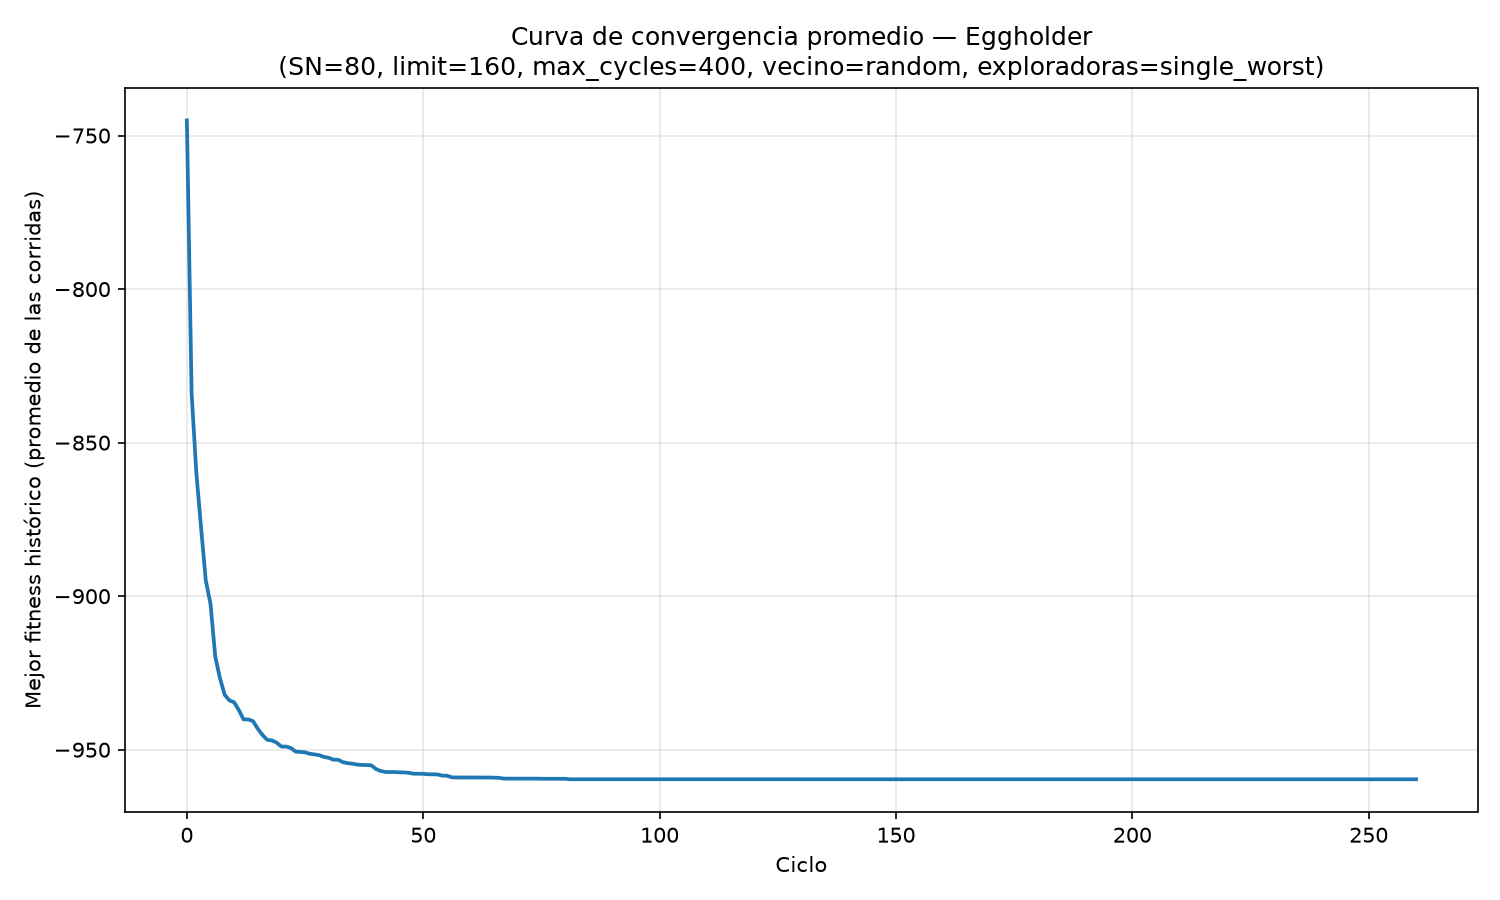
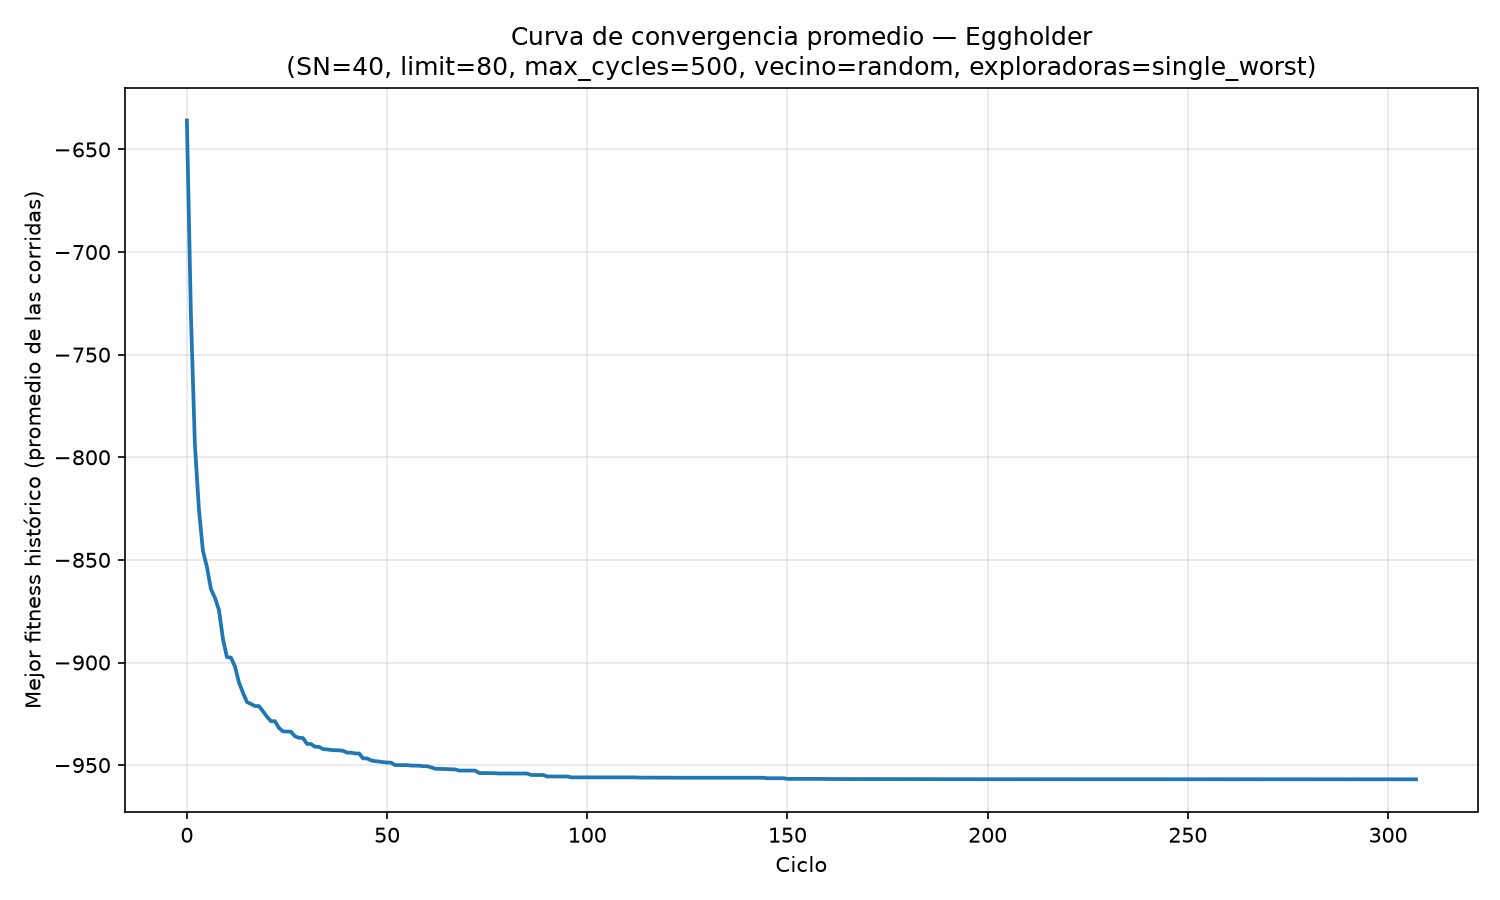
Act4: Código Presentado

diff --git a/2026_09_27/Código/abc_colony.py b/2026_09_27/Código/abc_colony.py
@@ -195,7 +195,10 @@ def select_neighbor_nearest_euclidean(
     diffs = population - population[index_i]
     dists = np.linalg.norm(diffs, axis=1)
     dists[index_i] = np.inf  # excluir la propia fuente
-    return int(np.argmin(dists))
+
+    top_3 = np.argpartition(dists, 3)[:3] #Obtner los tres más cercanos
+    chosen_index = np.random.choice(top_3) # Elegir uno al azar
+    return int(chosen_index)
 
 # Listado de estrategias de la selección de vecinos
 NEIGHBOR_SELECTION_OPERATORS: dict[str, NeighborSelectionOperator] = {
@@ -342,7 +345,7 @@ Misma idea que las actividades pasadas, un contenedor de datos
 @dataclass
 class RunResult:
     """Resultado de una corrida completa del ABC."""
-
+    radio_list: list[float]
     best_x: np.ndarray
     best_fitness: float
     cycles_run: int
@@ -418,11 +421,29 @@ class ABCAlgorithm:
         trial_counts: np.ndarray,
         index_i: int,
         rng: Generator,
+        employed: bool, # Determina si la abeja es Empleada
     ) -> None:
         """Genera un candidato vecino a `index_i` y lo adopta (selección
         greedy) si mejora la fuente actual; si no, incrementa su contador
         de intentos fallidos (`trial`)."""
-        candidate = self._neighbor_search_candidate(population, index_i, rng) # Encontrar una posible nueve fuente de alimento
+        #candidate = self._neighbor_search_candidate(population, index_i, rng) # Encontrar una posible nueve fuente de alimento
+        
+        if(employed): #Si la abeja es empleada, usamos la distancia euclidiana
+            # 1. Obtenemos el indice del vecino más cercano usando tu función
+            index_j = select_neighbor_nearest_euclidean(population, index_i, rng, self.config)
+            
+            # 2. Obtenemos las coordenadas reales de ese vecino
+            vecino_coords = population[index_j]
+            
+            # 3. Generamos el candidato mutando la solución actual con el vecino
+            # (Fórmula estándar de ABC: x_i + phi * (x_i - x_j))
+            phi = rng.uniform(-1, 1, size=self.n_vars)
+            candidate = population[index_i] + phi * (population[index_i] - vecino_coords)
+            candidate = np.clip(candidate, self.low, self.high) # Clippear al espacio de búsqueda
+            
+        else: # Si no es empleada, se utiliza el configurado
+            candidate = self._neighbor_search_candidate(population, index_i, rng)
+        
         f_candidate = float(self.problem.func(candidate.reshape(1, -1))[0]) # Evaluación del fitness de la nueva fuente
 
         if f_candidate < fitness[index_i]: # Si la fuente candidata es mejor (Menor Fitness)
@@ -438,7 +459,7 @@ class ABCAlgorithm:
         """Fase de abejas Empleadas: cada fuente intenta una búsqueda
         vecinal (una abeja empleada por fuente)."""
         for i in range(self.colony_size): # Cada abeja en la colonia
-            self._greedy_update(population, fitness, trial_counts, i, rng) # Intenta buscar una mejor fuente de alimento, puede conseguirlo o aumentar su contador de estancamiento
+            self._greedy_update(population, fitness, trial_counts, i, rng, True) # Intenta buscar una mejor fuente de alimento, puede conseguirlo o aumentar su contador de estancamiento
 
     # Selección de probabilidades que usarán las abejas observadoras por método de ruleta
     def _selection_probabilities(self, fitness: np.ndarray) -> np.ndarray:
@@ -461,7 +482,7 @@ class ABCAlgorithm:
         probs = self._selection_probabilities(fitness) # Cálculo de probabilidades para la ruleta
         chosen = rng.choice(self.colony_size, size=self.onlooker_count, replace=True, p=probs) # Selección aleatoria de onlooker_count fuentes pudiéndose repetir
         for i in chosen:
-            self._greedy_update(population, fitness, trial_counts, int(i), rng) # Cada observadora intenta buscar una fuente de alimento mejor dada en referencia a una fuente de alimento vecino
+            self._greedy_update(population, fitness, trial_counts, int(i), rng, False) # Cada observadora intenta buscar una fuente de alimento mejor dada en referencia a una fuente de alimento vecino
             # Comportamiento idéntico a la empleadas
 
     def _scout_phase(
@@ -497,6 +518,7 @@ class ABCAlgorithm:
 
         cycle = 0 # Contador de iteraciones
         stopped_reason = "max_cycles" # Razón de paro (por default será número de ciclos; será modificada si otro criterio de paro es el que finalmente actua)
+        radio_list = []
 
         while True: # Ciclo Principal
             current_best_idx = int(np.argmin(fitness)) # Mejor índice actual 
@@ -524,6 +546,12 @@ class ABCAlgorithm:
             self._onlooker_phase(population, fitness, trial_counts, rng) # Fase de las abejas observadoras (Selección de las mejores fuentes y búsqueda de mejores fuentes)
             self._scout_phase(population, fitness, trial_counts, rng) # Fase de las abejas exploradoras (Abdanonar fuentes estancadas y aleatorizar nuevas)
             cycle += 1
+
+            # Calcular el radio promedio
+            centroide = np.mean(population, axis = 0)
+            radio = np.mean(np.linalg.norm(population - centroide, axis=1))
+            radio_list.append(radio)
+
         #Retorno de resultados y estadística
         return RunResult(
             best_x=best_x,
@@ -532,6 +560,7 @@ class ABCAlgorithm:
             convergence_best=convergence_best,
             diversity_history=diversity_history,
             stopped_reason=stopped_reason,
+            radio_list=radio_list
         )
 
 

diff --git a/2026_09_27/Código/main.py b/2026_09_27/Código/main.py
@@ -221,6 +221,7 @@ ____________________________________________________________
 # Contenedor de datos estadísticos
 @dataclass
 class StatsRow:
+    runs: list[RunResult]
     problem_name: str
     best: float
     worst: float
@@ -228,6 +229,7 @@ class StatsRow:
     std: float
     success_rate: float | None
     mean_cycles: float
+    last_radio: float
 
 # Cálculos de las estadísticas dado el éxito (si se conoce el mínimo analítico)
 def compute_stats(problem: ProblemSpec, runs: list[RunResult], tolerance: float) -> StatsRow:
@@ -235,6 +237,7 @@ def compute_stats(problem: ProblemSpec, runs: list[RunResult], tolerance: float)
     successes = [is_success(problem, v, tolerance) for v in values]
     success_rate = float(np.mean(successes)) if all(s is not None for s in successes) else None
     return StatsRow(
+        runs= runs,
         problem_name=problem.name,
         best=float(values.min()),
         worst=float(values.max()),
@@ -242,19 +245,29 @@ def compute_stats(problem: ProblemSpec, runs: list[RunResult], tolerance: float)
         std=float(values.std(ddof=1)) if len(values) > 1 else 0.0,
         success_rate=success_rate,
         mean_cycles=float(np.mean([r.cycles_run for r in runs])),
+        last_radio=float(runs[-1].radio_list[-1])
     )
 
 
 # Impresión de la tabla de estadísticas
 def print_stats_table(row: StatsRow) -> None:
-    header = f"{'Problema':<12} {'Mejor':>12} {'Peor':>12} {'Media':>12} {'Desv.Std':>12} {'% Éxito':>9} {'Ciclos media':>13}"
+    header = f"{'Problema':<12} {'Mejor':>12} {'Peor':>12} {'Media':>12} {'Desv.Std':>12} {'% Éxito':>9} {'Ciclos media':>13} {'Último Radio':>12}"
     print("\n" + header)
     print("-" * len(header))
     success_str = f"{row.success_rate:.0%}" if row.success_rate is not None else "N/A"
     print(
         f"{row.problem_name:<12} {row.best:>12.4f} {row.worst:>12.4f} {row.mean:>12.4f} "
-        f"{row.std:>12.4f} {success_str:>9} {row.mean_cycles:>13.1f}"
+        f"{row.std:>12.4f} {success_str:>9} {row.mean_cycles:>13.1f} {row.last_radio:>12.1f}"
     )
+
+    print_radii_runs_table(row)
+    # print('=====================================================================')
+    # medio_idx = len(row.runs[0].radio_list) // 2
+    # print(f'Evolución del radio en una ejecución')
+    # print(f'Radio en la Primera Iteración: {row.runs[0].radio_list[0]}')
+    # print(f'Radio en la Iteración {medio_idx+1}: {row.runs[0].radio_list[medio_idx]}')
+    # print(f'Radio en la Última Iteración: {row.runs[0].radio_list[-1]}')
+    
 
 # Exportación de las estadísticas a un CSV
 def export_stats_csv(row: StatsRow, path: str) -> None:
@@ -297,6 +310,35 @@ def plot_diversity(runs: list[RunResult], output_path: str, config_label: str) -
     fig.savefig(output_path, dpi=150)
     plt.close(fig)
     print(f"Gráfica de diversidad poblacional guardada: {output_path}")
+
+def print_radii_runs_table(row: StatsRow):
+    """Imprime una tabla detallada donde cada fila es una corrida (run)
+    del problema actual, mostrando su radio Inicial, Medio y Final."""
+    
+    print("\n" + "="*65)
+    print(f"EVOLUCIÓN DEL RADIO POR CORRIDA - PROBLEMA: {row.problem_name.upper()}")
+    print("="*65)
+    print(f"{'No. Corrida':<12} | {'Radio Inicial':<15} | {'Radio Medio':<15} | {'Radio Final':<15}")
+    print("-"*65)
+    
+    # Recorremos cada corrida (run) de forma individual
+    for idx, run in enumerate(row.runs, start=1):
+        r_list = run.radio_list
+        
+        # Validar si esta corrida en particular tiene datos
+        if not r_list:
+            print(f"Run {idx:<8} | {'N/A':<15} | {'N/A':<15} | {'N/A':<15}")
+            continue
+            
+        # Extraer los puntos clave de la lista de esta corrida
+        init_val = r_list[0]
+        mid_val = r_list[len(r_list) // 2]
+        final_val = r_list[-1]
+        
+        # Imprimir los datos exactos de la corrida con formato científico de 6 decimales
+        print(f"Run {idx:<8} | {init_val:<15.6f} | {mid_val:<15.6f} | {final_val:<15.6f}")
+        
+    print("="*65 + "\n")
 
 
 def plot_spatial_distribution(
